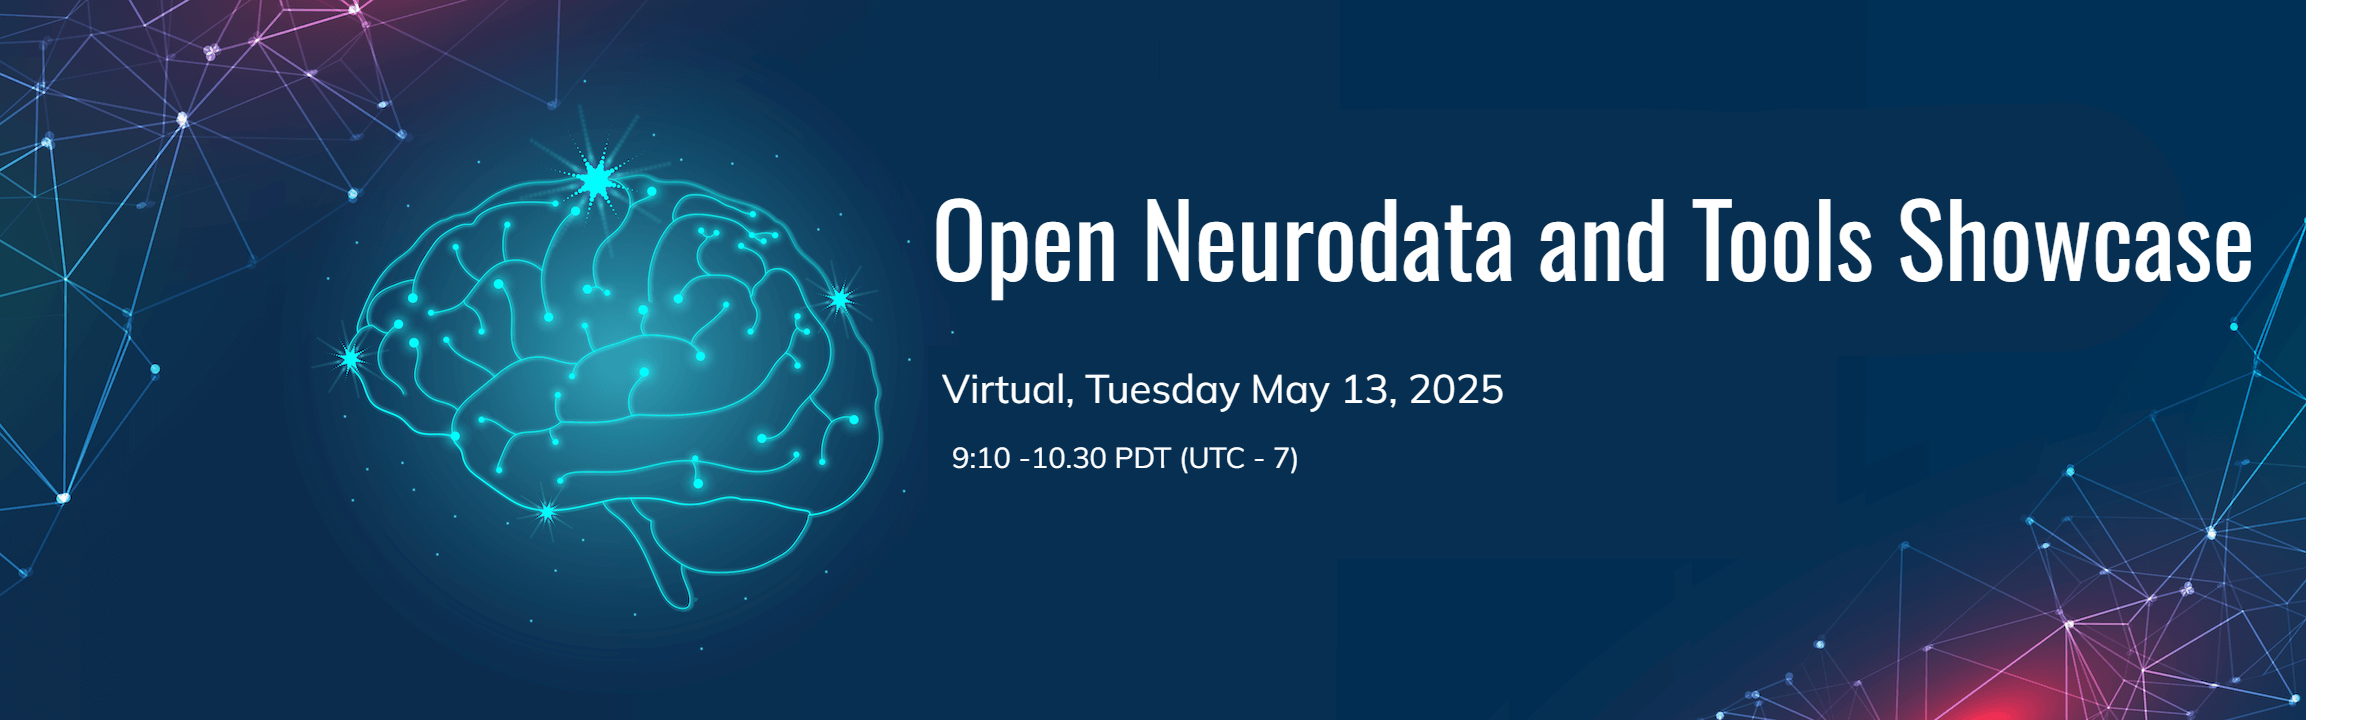
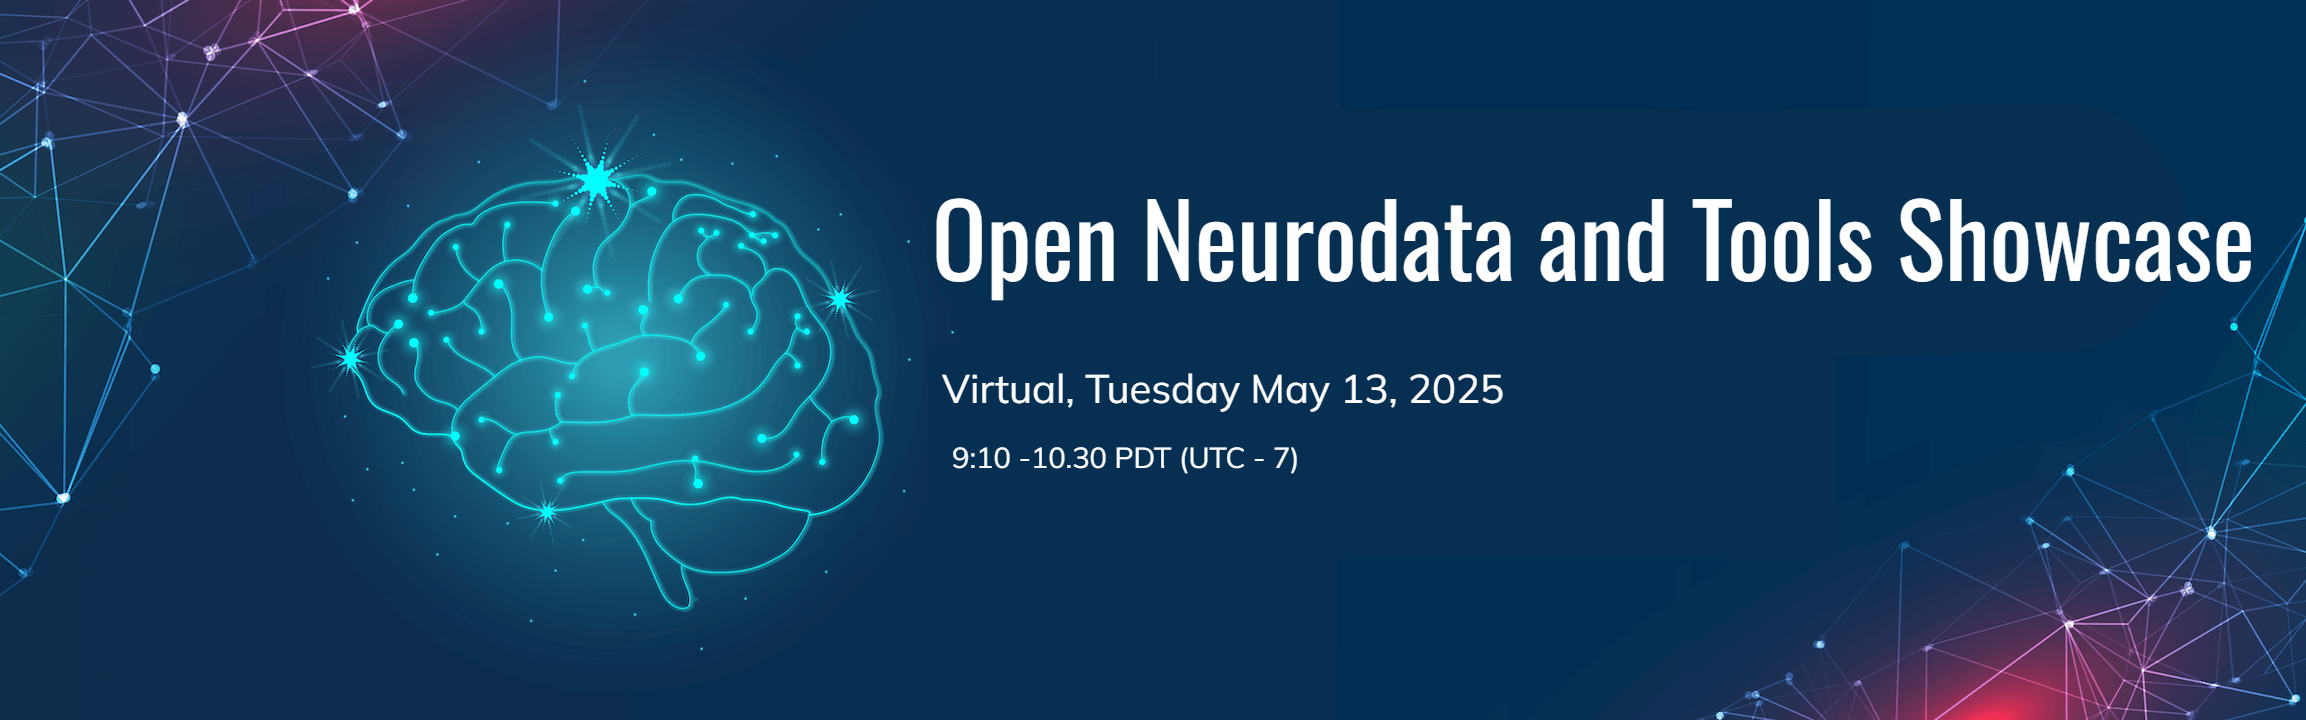
Update neurodata and tools showcase (#352)
* add neurodata showcase to main readme

* update neurodatashowcase image

diff --git a/README.md b/README.md
@@ -6,7 +6,8 @@
 - [Cosyne: March 2025](Cosyne_2025/README.md) - A tutorial session on NWB and DANDI will be held during the Computational and Systems Neuroscience (COSYNE) 2025 conference in Montreal, Canada on **March 27, 2025**.
 - [NWB and DANDI Workshop: April 2025](Workshop_2025_UWashington/README.md) - **April 7-8, 2025** at University of Washington in Seattle, WA, USA
 - [NWB Docathon: May 2025](Docathon_2025/README.md) - **May 1-2, 2025** (virtual)
-- [NWB Data Conversion Workshop: May 2025](HCK22_2025_DataConversion_Remote/README.md) - **May 12-14, 2025** (virtual)
+- [NWB Data Conversion Workshop: May 2025](HCK22_2025_DataConversion_Remote/README.md) - **May 12-13, 2025** (virtual)
+- [NWB Open Neurodata and Tools Showcase: May 2025](HCK23_2025_OpenNeurodataShowcase/README.md) - **May 13, 2025** (virtual)
 - [NeuroDataReHack: July 2025](HCK24_2025_Janelia_NDRH/README.md) - **July 14-18, 2025** at HHMI Janelia Research Campus in Ashburn, Virginia, USA
 - [NWB Community Hackathon: August 2025](HCK25_2025_Community_Hackathon_Flatiron/README.md) - **August 4-6, 2025** at Flatiron Institute in New York City, NY, USA
 
